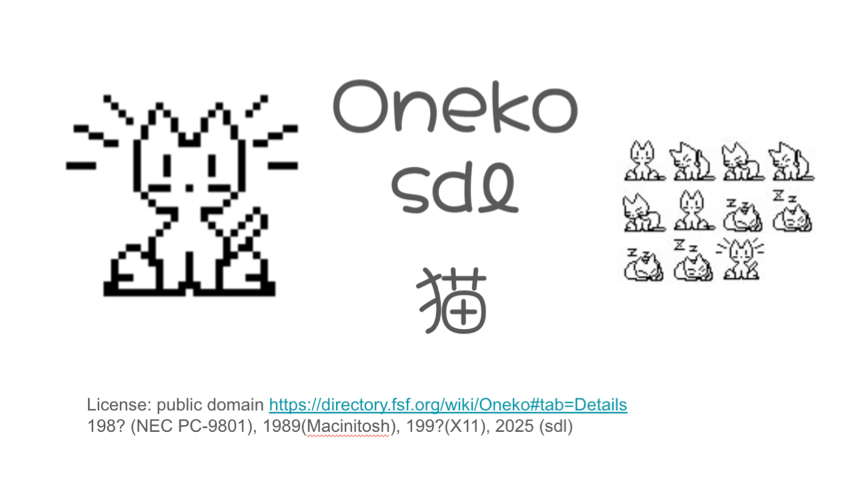
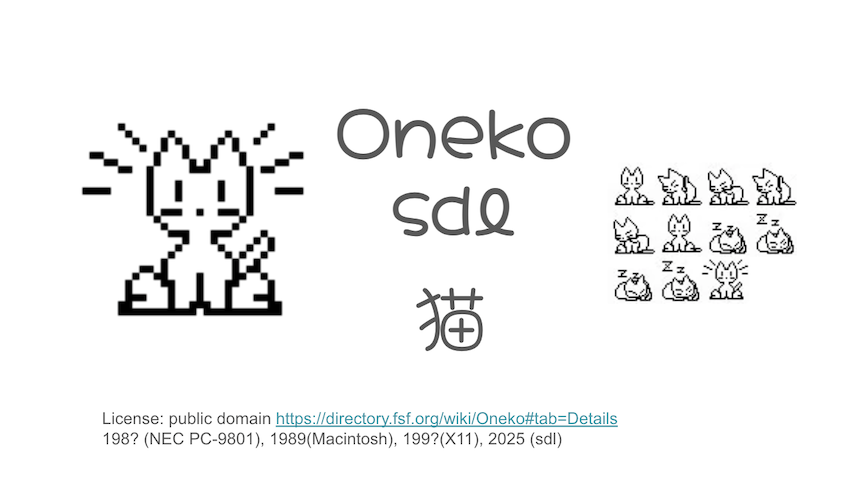
updated images minus alpha

diff --git a/wiiu/main_wrapper1.c b/wiiu/main_wrapper1.c
@@ -21,8 +21,6 @@ that program's main() with this wrapper.
 
 #ifndef HAS_DKO_SDL_QUIT_FIXES
 #include <sysapp/title.h>       // SYSCheckTitleExists()
-#include <sysapp/launch.h>
-#include <whb/proc.h>
 #endif
 
 #include <SDL.h>	// check if we have latest version
@@ -40,23 +38,12 @@ int main(int argc, char** argv) {
 // - ProcUI cleanup on `SDL_Quit()`
 // - Foreground/background events.
 //
-// Remove #else section once DKO_CUSTOM_SDL fixes
+// Remove ifndef section once DKO_CUSTOM_SDL fixes
 // are included in the next official SDL release
 //
-#ifdef HAS_DKO_SDL_QUIT_FIXES
-    return real_main(argc, argv);  // isn't the future so simple and clean?
-#else // planned obsolence
+#ifndef HAS_DKO_SDL_QUIT_FIXES
     SYSCheckTitleExists(0);      // workaround for SDL bug
-
-    int res = real_main(argc,argv);
-
-    // User pressed '-', initiating an exit. 
-    // We need to cleanly return to WiiU main menu.
-    // ie. workaround for SDL_QUIT and SDL_Quit()
-    WHBProcInit();              // pre-req for WHBProcIsRunning()
-    SYSLaunchMenu();            // tell WiiU app we're quitting 
-    while (WHBProcIsRunning()); // check WiiU process state until ok to exit.
-
-    return res;
 #endif
+    return real_main(argc, argv);  // isn't the future so simple and clean?
+
 }

diff --git a/wiiu/README.md b/wiiu/README.md
@@ -50,3 +50,11 @@ root@devkitppc:/project/wiiu# wiiload oneko_sdl_wiiu.wuhb
 
 Thanks to DanielKO for his help getting this to work on the WiiU. There is no way I would have gotten
 proper exit behavior without him, and his SDL fixes will prevent future pain.
+
+
+# notes on patched SDL
+
+DanielKO provided patched SDL source to support exiting. Without these fixes, 
+the app cannot exit back to the memory correctly.  In its current form,
+you can press the "Home" button, and exit to the Home Menu.  However, exiting
+from within the app (press '-') doesn't work correctly.
